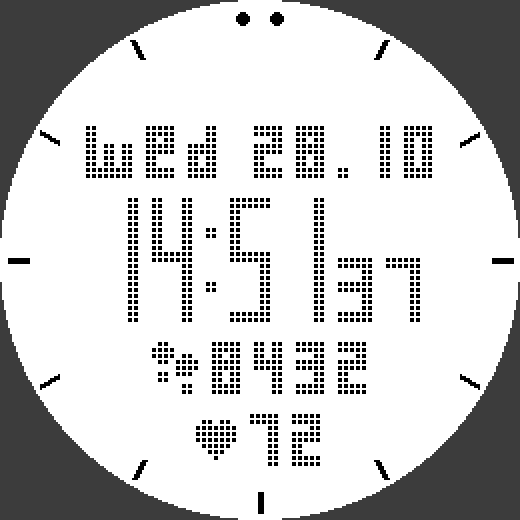
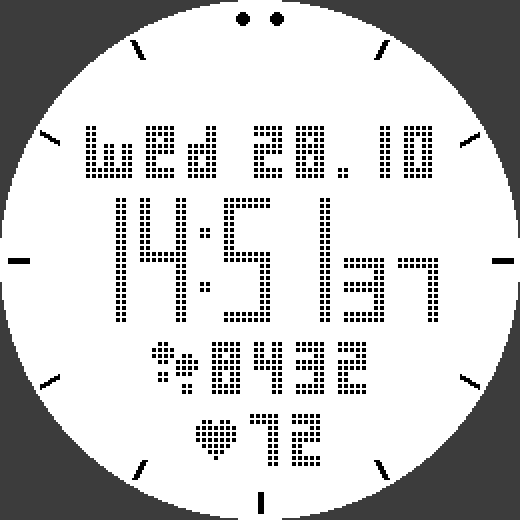
Widen time and seconds digits by one dot
BIG font 7 -> 8 dots wide, seconds font 6 -> 7 dots wide.

Claude-Session: https://claude.ai/code/session_01W6d35G3fp5micouApmvB6d

diff --git a/tools/dotfont.py b/tools/dotfont.py
@@ -122,8 +122,8 @@ DIGITS = "0123456789"
 LETTERS = "".join(sorted(set("SunMonTueWedThuFriSat")))
 
 # Шрифты циферблата (размеры подобраны под экран Fenix 6, 260x260)
-BIG = DotFont("big_dots", w=7, h=21, t=2, cell=3, dot=2, gap=2, chars=DIGITS + ":")
-SEC = DotFont("sec_dots", w=6, h=11, t=2, cell=3, dot=2, gap=2, chars=DIGITS)
+BIG = DotFont("big_dots", w=8, h=21, t=2, cell=3, dot=2, gap=2, chars=DIGITS + ":")
+SEC = DotFont("sec_dots", w=7, h=11, t=2, cell=3, dot=2, gap=2, chars=DIGITS)
 SMALL = DotFont("small_dots", w=5, h=9, t=2, cell=3, dot=2, gap=2,
                 chars=DIGITS + ".- " + LETTERS + "@&")
 
